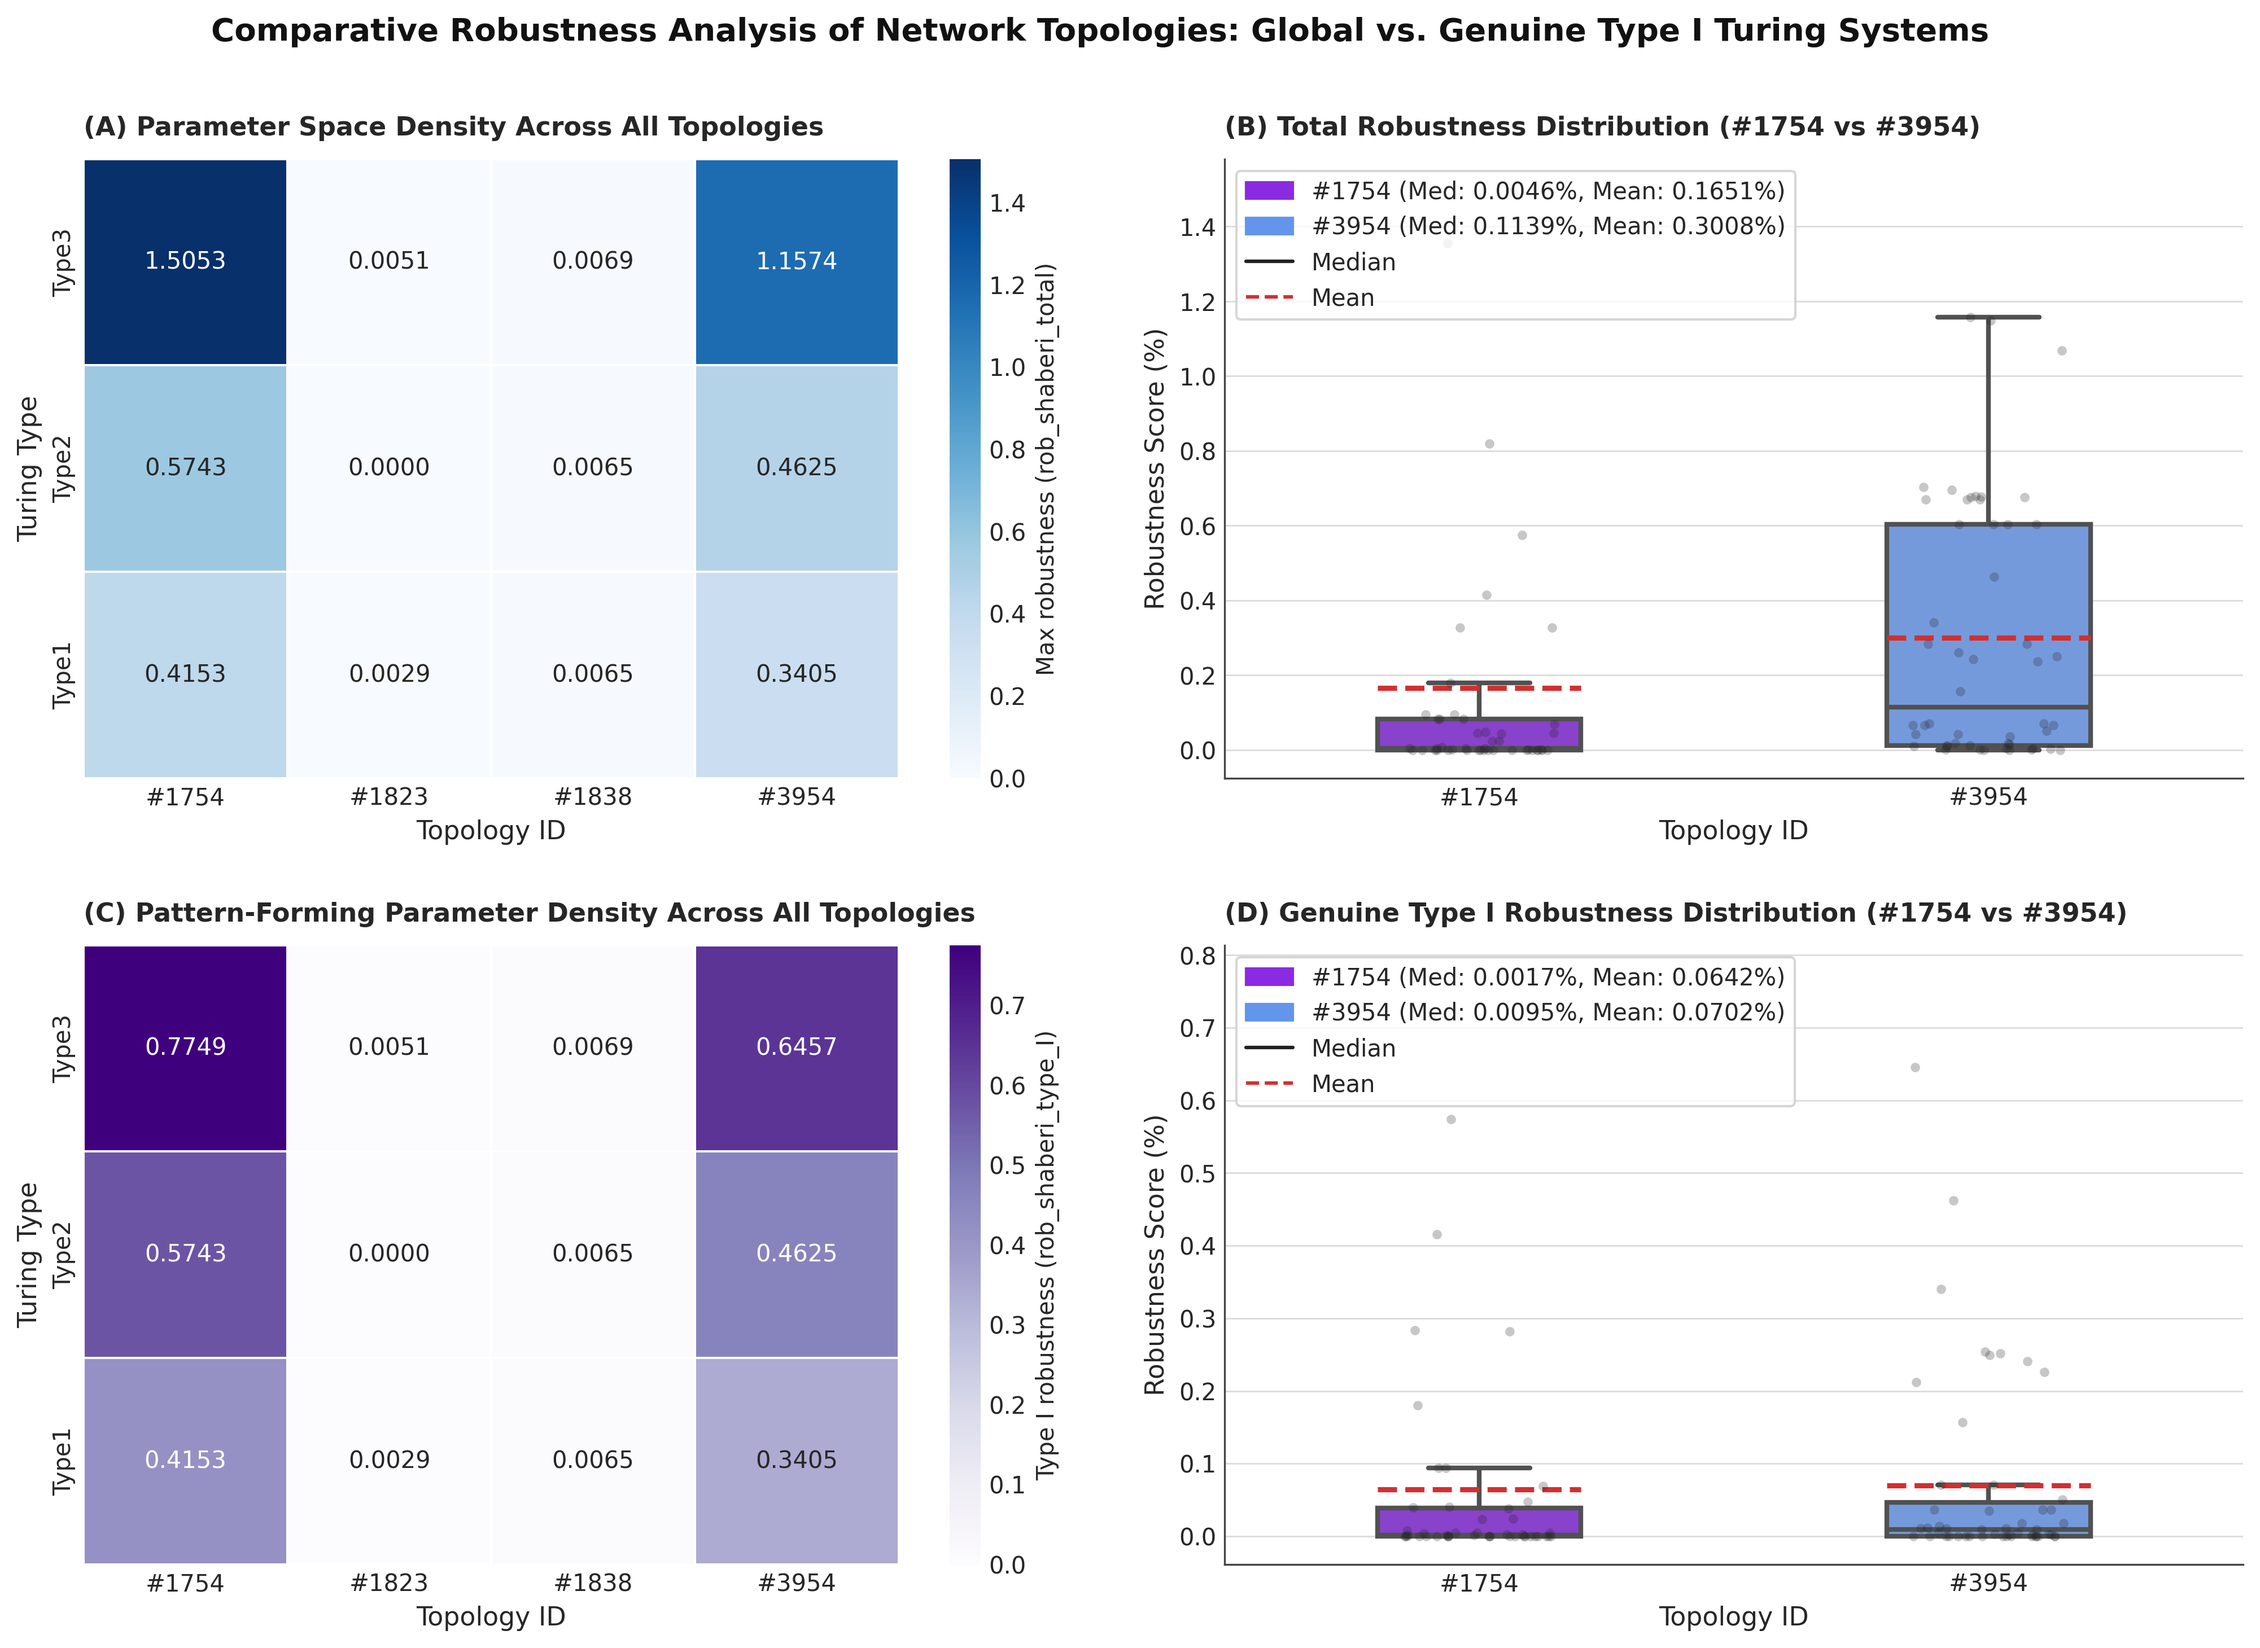
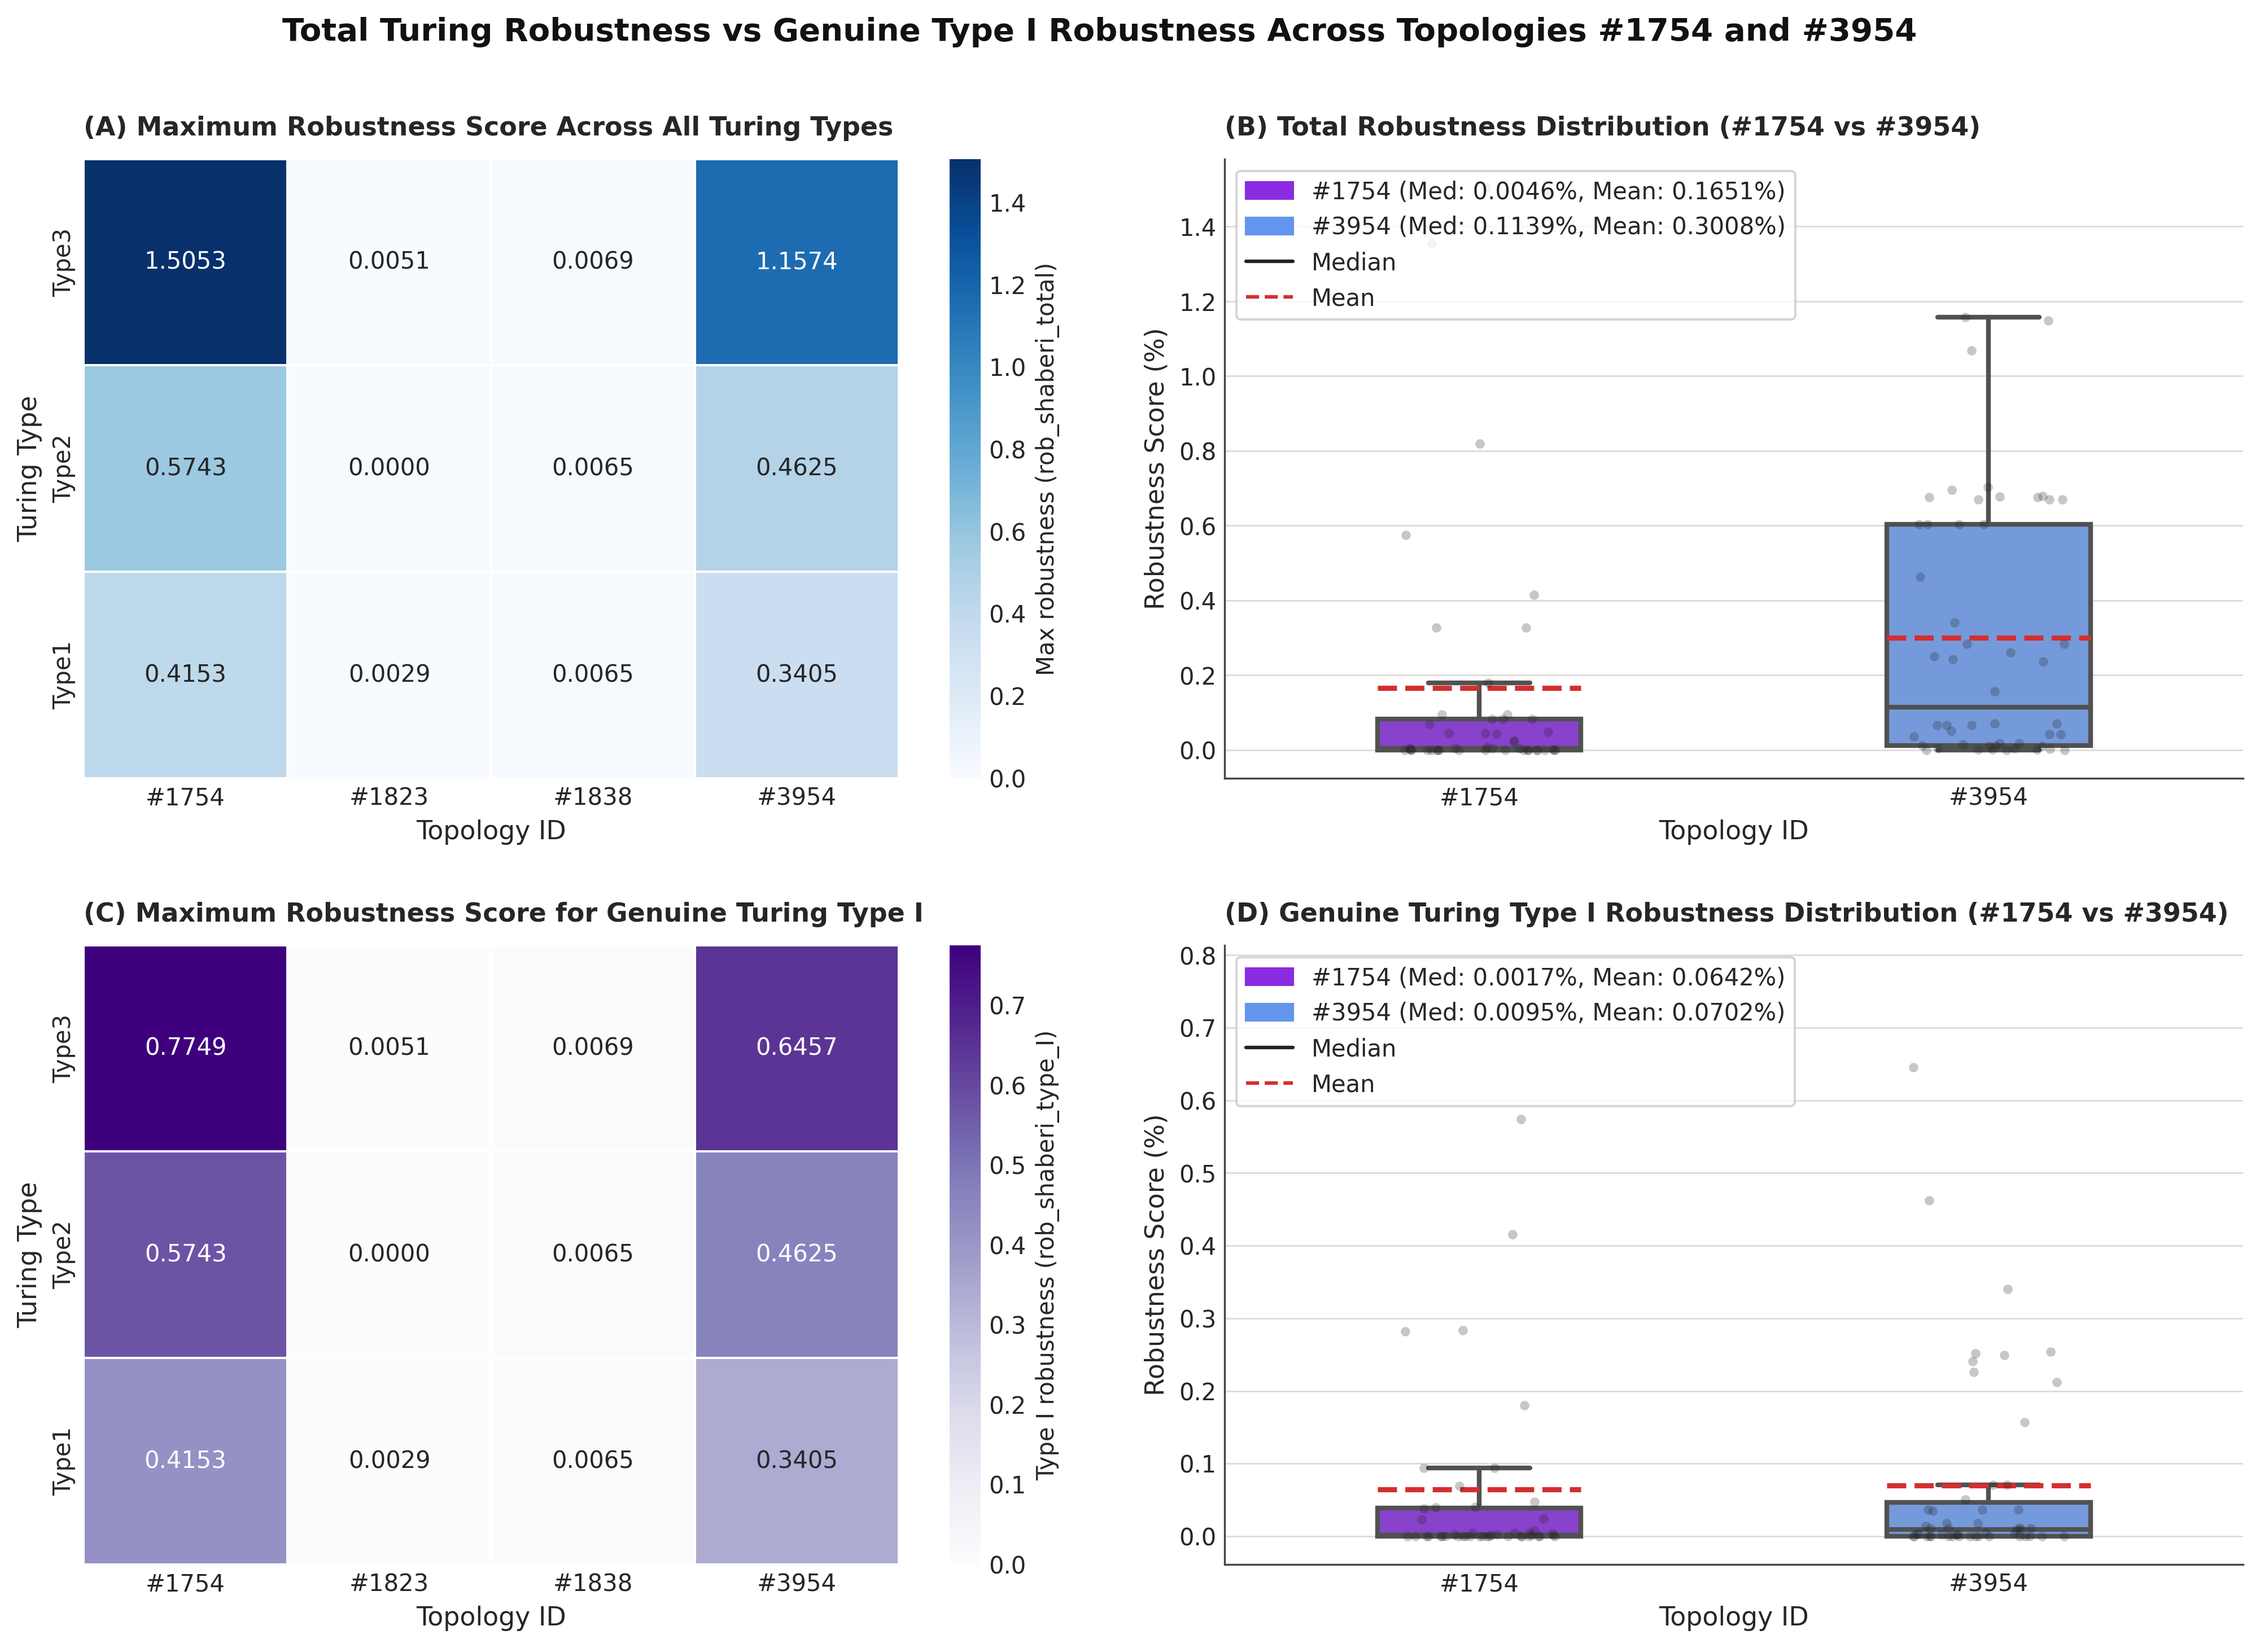
small fixes

diff --git a/TopologyRanking/results-compare-lhs.py b/TopologyRanking/results-compare-lhs.py
@@ -952,7 +952,7 @@ def fig_thesis_combined_robustness_analysis(df):
         cbar_kws={"label": "Max robustness (rob_shaberi_total)"},
     )
     ax_hm_tot.set_title(
-        "(A) Parameter Space Density Across All Topologies",
+        "(A) Maximum Robustness Score Across All Turing Types",
         fontsize=11,
         fontweight="semibold",
         loc="left",
@@ -1026,7 +1026,7 @@ def fig_thesis_combined_robustness_analysis(df):
         cbar_kws={"label": "Type I robustness (rob_shaberi_type_I)"},
     )
     ax_hm_t1.set_title(
-        "(C) Pattern-Forming Parameter Density Across All Topologies",
+        "(C) Maximum Robustness Score for Genuine Turing Type I",
         fontsize=11,
         fontweight="semibold",
         loc="left",
@@ -1062,7 +1062,7 @@ def fig_thesis_combined_robustness_analysis(df):
         ax=ax_box_t1,
     )
     ax_box_t1.set_title(
-        "(D) Genuine Type I Robustness Distribution (#1754 vs #3954)",
+        "(D) Genuine Turing Type I Robustness Distribution (#1754 vs #3954)",
         fontsize=11,
         fontweight="semibold",
         loc="left",
@@ -1092,7 +1092,7 @@ def fig_thesis_combined_robustness_analysis(df):
         ax.tick_params(axis="both", which="major", labelsize=10)
 
     # Global Title Options (Choose one for your figure text below)
-    title_text = "Comparative Robustness Analysis of Network Topologies: Global vs. Genuine Type I Turing Systems"
+    title_text = "Total Turing Robustness vs Genuine Type I Robustness Across Topologies #1754 and #3954"
     fig.text(
         0.5,
         0.97,
